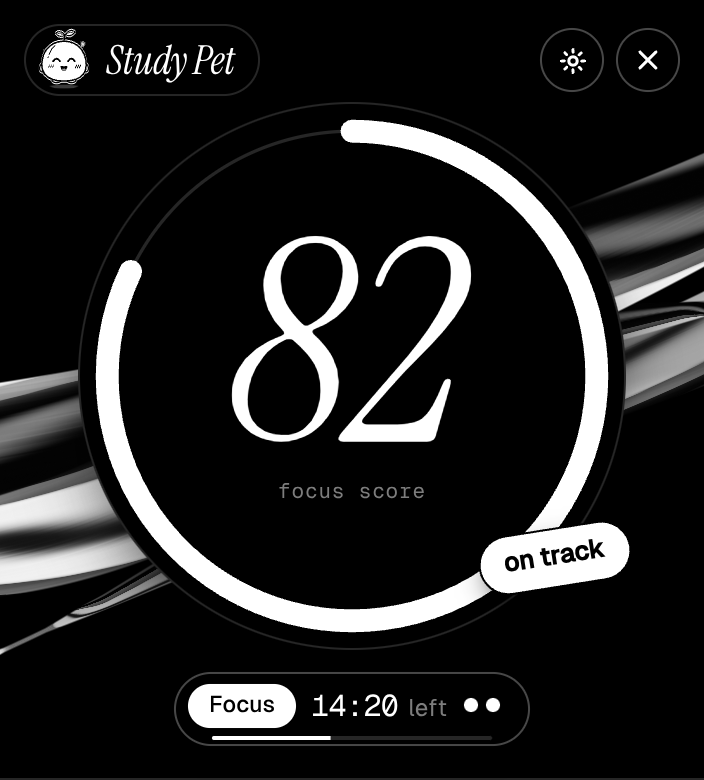
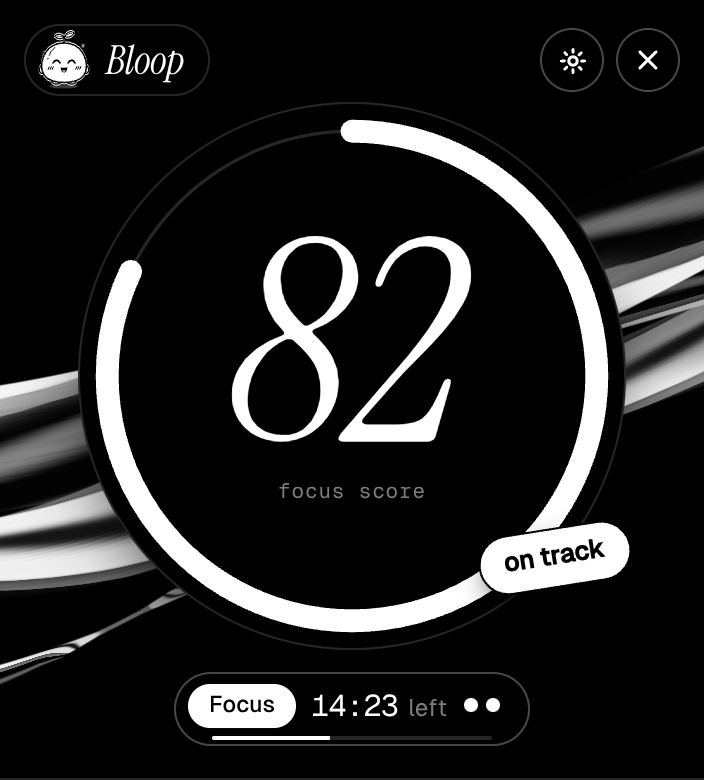
Rename the app to Bloop
User-facing name, window titles, tray, notifications, onboarding, README,
installer productName and bundle id (edu.bloop.app). Env vars are now
BLOOP_FAST / BLOOP_FAKE_ACTIVE / BLOOP_AUTOSTART and logs use [bloop].
Screenshots regenerated.

diff --git a/src/main/tray.ts b/src/main/tray.ts
@@ -46,7 +46,7 @@ export function createTray(actions: TrayActions, status: AppStatus): Tray | null
     if (process.platform === 'darwin') img.setTemplateImage(true)
     tray = new Tray(img)
   } catch (e) {
-    console.log(`[studypet] tray unavailable: ${(e as Error).message}`)
+    console.log(`[bloop] tray unavailable: ${(e as Error).message}`)
     return null
   }
   if (process.platform !== 'darwin') tray.on('click', () => actions.togglePanel())
@@ -59,8 +59,8 @@ export function updateTray(actions: TrayActions, s: AppStatus): void {
   const scoreText = s.score === null ? '—' : `${s.score}`
   const tip =
     s.phase === 'idle'
-      ? 'Study Pet — no session running'
-      : `Study Pet — ${s.phase === 'paused' ? 'paused' : s.phase} · focus score ${scoreText}`
+      ? 'Bloop — no session running'
+      : `Bloop — ${s.phase === 'paused' ? 'paused' : s.phase} · focus score ${scoreText}`
   tray.setToolTip(tip)
   // the countdown next to the menu-bar icon (mac only)
   if (process.platform === 'darwin') {
@@ -72,7 +72,7 @@ export function updateTray(actions: TrayActions, s: AppStatus): void {
   lastKey = key
   const running = s.phase === 'focus' || s.phase === 'break' || s.phase === 'paused'
   const items: MenuItemConstructorOptions[] = [
-    { label: running ? `Focus score: ${scoreText}` : 'Study Pet', enabled: false },
+    { label: running ? `Focus score: ${scoreText}` : 'Bloop', enabled: false },
     { type: 'separator' }
   ]
   if (!running) items.push({ label: 'Start session', click: () => actions.start() })
@@ -86,7 +86,7 @@ export function updateTray(actions: TrayActions, s: AppStatus): void {
     { label: 'Show panel', click: () => actions.togglePanel() },
     { label: 'Settings…', click: () => actions.openSettings() },
     { type: 'separator' },
-    { label: 'Quit Study Pet', click: () => app.quit() }
+    { label: 'Quit Bloop', click: () => app.quit() }
   )
   tray.setContextMenu(Menu.buildFromTemplate(items))
 }

diff --git a/src/main/index.ts b/src/main/index.ts
@@ -14,15 +14,15 @@ import { createTray, updateTray, type TrayActions } from './tray'
 import * as windows from './windows'
 
 const __dirname = dirname(fileURLToPath(import.meta.url))
-const FAST = process.env['STUDYPET_FAST'] === '1'
+const FAST = process.env['BLOOP_FAST'] === '1'
 const isMac = process.platform === 'darwin'
 
-const log = (m: string): void => console.log(`[studypet] ${m}`)
+const log = (m: string): void => console.log(`[bloop] ${m}`)
 
 // ------------------------------------------------------------------ single instance
 
 // Windows: needed for toast notifications (must match build.appId) and taskbar grouping.
-if (process.platform === 'win32') app.setAppUserModelId('edu.studypet.app')
+if (process.platform === 'win32') app.setAppUserModelId('edu.bloop.app')
 
 if (!app.requestSingleInstanceLock()) {
   app.quit()
@@ -222,7 +222,7 @@ app.on('before-quit', () => {
 })
 
 app.whenReady().then(() => {
-  log(`starting (platform=${process.platform}, fast=${FAST}, fake=${process.env['STUDYPET_FAKE_ACTIVE'] ?? 'no'})`)
+  log(`starting (platform=${process.platform}, fast=${FAST}, fake=${process.env['BLOOP_FAKE_ACTIVE'] ?? 'no'})`)
   if (isMac) app.dock?.hide()
   registerIpc()
   windows.createPetWindow()
@@ -240,7 +240,7 @@ app.whenReady().then(() => {
   if (icalUrl) void refreshDeadlines(icalUrl)
 
   // dev/demo: auto-start a session for headless verification
-  if (process.env['STUDYPET_AUTOSTART'] === '1') setTimeout(() => engine.start(), 1500)
+  if (process.env['BLOOP_AUTOSTART'] === '1') setTimeout(() => engine.start(), 1500)
 
   app.on('activate', () => windows.togglePanel())
 })

diff --git a/src/main/reminders.ts b/src/main/reminders.ts
@@ -35,7 +35,7 @@ export class ReminderScheduler {
       this.checkStudyReminders()
       this.checkDeadlines()
     } catch (e) {
-      console.log(`[studypet] reminder check failed: ${(e as Error).message}`)
+      console.log(`[bloop] reminder check failed: ${(e as Error).message}`)
     }
   }
 
@@ -49,10 +49,10 @@ export class ReminderScheduler {
       if (wasReminderFired(key)) continue
       markReminderFired(key)
       if (this.deps.engine.isRunning()) {
-        console.log(`[studypet] reminder "${r.label}" skipped (session running)`)
+        console.log(`[bloop] reminder "${r.label}" skipped (session running)`)
         continue
       }
-      console.log(`[studypet] reminder fired: "${r.label}"`)
+      console.log(`[bloop] reminder fired: "${r.label}"`)
       this.deps.engine.say('Time to study!', 'wave')
       this.deps.notify('Time to study! 📚', r.label || "Your study pet is ready when you are.", {
         actionText: 'Start session',
@@ -76,7 +76,7 @@ export class ReminderScheduler {
         if (wasReminderFired(key)) continue
         markReminderFired(key, now)
         const when = new Date(d.start).toLocaleString(undefined, { weekday: 'short', month: 'short', day: 'numeric', hour: 'numeric', minute: '2-digit' })
-        console.log(`[studypet] deadline reminder: ${d.summary} in ~${n}d`)
+        console.log(`[bloop] deadline reminder: ${d.summary} in ~${n}d`)
         this.deps.notify(`${d.summary} in ${n === 1 ? '1 day' : '3 days'}`, `${when} — want to start a study session?`, {
           actionText: 'Start session',
           onAction: () => this.deps.engine.start()

diff --git a/src/main/plan.ts b/src/main/plan.ts
@@ -18,7 +18,7 @@ export function loadEnv(dirs: string[]): void {
     const p = join(d, '.env')
     if (existsSync(p)) {
       dotenv.config({ path: p, quiet: true } as dotenv.DotenvConfigOptions)
-      console.log(`[studypet] loaded env from ${p}`)
+      console.log(`[bloop] loaded env from ${p}`)
     }
   }
 }
@@ -97,7 +97,7 @@ export function parsePlan(text: string, now = Date.now()): StudyPlan {
 
 export async function generatePlan(deadlines: Deadline[], stats: Stats, settings: Settings): Promise<Result<StudyPlan>> {
   if (!hasApiKey()) {
-    return { ok: false, error: 'No ANTHROPIC_API_KEY set in .env — add one to the project folder (or app folder) and restart Study Pet.' }
+    return { ok: false, error: 'No ANTHROPIC_API_KEY set in .env — add one to the project folder (or app folder) and restart Bloop.' }
   }
   try {
     const client = new Anthropic({ apiKey: process.env['ANTHROPIC_API_KEY'] })
@@ -113,7 +113,7 @@ export async function generatePlan(deadlines: Deadline[], stats: Stats, settings
     if (res.stop_reason === 'refusal') return { ok: false, error: 'The model declined to make a plan. Try again later.' }
     const text = res.content.map((b) => (b.type === 'text' ? b.text : '')).join('')
     const plan = parsePlan(text)
-    console.log(`[studypet] plan generated: ${plan.blocks.length} blocks`)
+    console.log(`[bloop] plan generated: ${plan.blocks.length} blocks`)
     return { ok: true, value: plan }
   } catch (e) {
     if (e instanceof Anthropic.AuthenticationError) return { ok: false, error: 'Your ANTHROPIC_API_KEY was rejected. Check the key in .env.' }

diff --git a/src/main/tracker.ts b/src/main/tracker.ts
@@ -28,7 +28,7 @@ async function readFake(path: string): Promise<RawActive | null> {
     if (!j || typeof j.app !== 'string') return null
     return { app: j.app, title: typeof j.title === 'string' ? j.title : '', url: typeof j.url === 'string' ? j.url : undefined }
   } catch (e) {
-    console.log(`[studypet] fake active window read failed: ${(e as Error).message}`)
+    console.log(`[bloop] fake active window read failed: ${(e as Error).message}`)
     return null
   }
 }
@@ -47,10 +47,10 @@ export async function getBrowserUrl(app: string): Promise<string | undefined> {
 
 /**
  * Sample the frontmost window. Returns null if it can't be determined (e.g. no window server
- * on Linux). If STUDYPET_FAKE_ACTIVE points at a JSON file `{app, url?, title?}`, that is used instead.
+ * on Linux). If BLOOP_FAKE_ACTIVE points at a JSON file `{app, url?, title?}`, that is used instead.
  */
 export async function sampleActiveWindow(): Promise<RawActive | null> {
-  const fake = process.env['STUDYPET_FAKE_ACTIVE']
+  const fake = process.env['BLOOP_FAKE_ACTIVE']
   if (fake) return readFake(fake)
   try {
     const { activeWindow } = await import('get-windows')
@@ -67,7 +67,7 @@ export async function sampleActiveWindow(): Promise<RawActive | null> {
   } catch (e) {
     if (!loggedTrackerError) {
       loggedTrackerError = true
-      console.log(`[studypet] active window unavailable: ${(e as Error).message}`)
+      console.log(`[bloop] active window unavailable: ${(e as Error).message}`)
     }
     return null
   }

diff --git a/src/main/windows.ts b/src/main/windows.ts
@@ -85,7 +85,7 @@ export function createPetWindow(): BrowserWindow {
     focusable: !isWin,
     ...(isWin ? { thickFrame: false, roundedCorners: false } : {}),
     show: false,
-    title: 'Study Pet',
+    title: 'Bloop',
     webPreferences: webPreferences()
   })
   setTopLevel(win, 'pet')
@@ -188,7 +188,7 @@ function createPanelWindow(): BrowserWindow {
     alwaysOnTop: true,
     skipTaskbar: true,
     show: false,
-    title: 'Study Pet',
+    title: 'Bloop',
     backgroundColor: '#000000',
     roundedCorners: true,
     webPreferences: webPreferences()
@@ -266,7 +266,7 @@ function bringToFront(win: BrowserWindow): void {
 export function openSettings(): void {
   closePanel()
   if (settingsWin && !settingsWin.isDestroyed()) return bringToFront(settingsWin)
-  settingsWin = framedWindow('settings', 760, 640, 'Study Pet — Settings')
+  settingsWin = framedWindow('settings', 760, 640, 'Bloop — Settings')
   settingsWin.on('closed', () => {
     settingsWin = null
   })
@@ -275,7 +275,7 @@ export function openSettings(): void {
 
 export function openOnboarding(): void {
   if (onboardingWin && !onboardingWin.isDestroyed()) return bringToFront(onboardingWin)
-  onboardingWin = framedWindow('onboarding', 520, 560, 'Welcome to Study Pet')
+  onboardingWin = framedWindow('onboarding', 520, 560, 'Welcome to Bloop')
   onboardingWin.on('closed', () => {
     onboardingWin = null
   })

diff --git a/src/main/session.ts b/src/main/session.ts
@@ -128,7 +128,7 @@ export class SessionEngine extends EventEmitter {
       clearTimeout: (h) => clearTimeout(h as ReturnType<typeof setTimeout>),
       fast: false,
       random: Math.random,
-      log: (m) => console.log(`[studypet] ${m}`),
+      log: (m) => console.log(`[bloop] ${m}`),
       ...deps
     } as SessionEngine['d']
   }
@@ -422,7 +422,7 @@ export class SessionEngine extends EventEmitter {
         if (streak >= tm.notifyAfterSec && !this.notifiedThisStreak) {
           this.notifiedThisStreak = true
           this.d.log('nudge notification')
-          this.d.notify('Study Pet misses you 🐾', `You've been off task for ${formatDur(streak)}. Let's get back to it together!`)
+          this.d.notify('Bloop misses you 🐾', `You've been off task for ${formatDur(streak)}. Let's get back to it together!`)
         }
       } else if (streak >= tm.sadAfterSec) {
         this.setMood('sad')

diff --git a/src/renderer/src/views/Settings.tsx b/src/renderer/src/views/Settings.tsx
@@ -313,7 +313,7 @@ export function SettingsView(): JSX.Element {
   }
 
   const reset = async (): Promise<void> => {
-    if (!confirm('Reset all Study Pet data? This deletes your session history and restores default settings.')) return
+    if (!confirm('Reset all Bloop data? This deletes your session history and restores default settings.')) return
     try {
       if (timer.current) window.clearTimeout(timer.current)
       pending.current = {}
@@ -433,7 +433,7 @@ export function SettingsView(): JSX.Element {
             onChange={(n) => update({ breakMinutes: n })}
           />
           <label className="row-toggle">
-            <span>Open Study Pet when you log in</span>
+            <span>Open Bloop when you log in</span>
             <span className="toggle">
               <input
                 type="checkbox"

diff --git a/src/main/deadlines.ts b/src/main/deadlines.ts
@@ -51,7 +51,7 @@ export async function refreshDeadlines(icalUrl: string): Promise<Result<Deadline
     if (!/BEGIN:VCALENDAR/i.test(body)) return { ok: false, error: "That URL didn't return an iCal calendar." }
     const items = parseDeadlines(ical.sync.parseICS(body) as Record<string, unknown>)
     setDeadlinesCache({ fetchedAt: Date.now(), url, items })
-    console.log(`[studypet] deadlines refreshed: ${items.length} upcoming`)
+    console.log(`[bloop] deadlines refreshed: ${items.length} upcoming`)
     return { ok: true, value: items }
   } catch (e) {
     return { ok: false, error: `Couldn't load calendar: ${(e as Error).message}` }

diff --git a/src/renderer/src/pet/Pet.tsx b/src/renderer/src/pet/Pet.tsx
@@ -48,7 +48,7 @@ export function Pet({ mood, size, skin = DEFAULT_SKIN, outlined = false, classNa
       className={`pet pet--${mood}${outlined ? ' pet--outlined' : ''}${className ? ` ${className}` : ''}`}
       style={style}
       role="img"
-      aria-label={`Study Pet, ${MOOD_LABEL[mood]}`}
+      aria-label={`Bloop, ${MOOD_LABEL[mood]}`}
     >
       <svg className="pet-halo-defs" width="0" height="0" aria-hidden="true" focusable="false">
         <filter id={haloId} x="-20%" y="-20%" width="140%" height="140%" colorInterpolationFilters="sRGB">

diff --git a/src/renderer/src/pet/skins/Blobby.tsx b/src/renderer/src/pet/skins/Blobby.tsx
@@ -2,7 +2,7 @@ import type { PetMood } from '@shared/types'
 import type { PetSkinProps } from './types'
 
 /**
- * "Blobby" — the default Study Pet: a round creature with a sprout, drawn as black-and-white line art.
+ * "Blobby" — the default Bloop: a round creature with a sprout, drawn as black-and-white line art.
  * White paper body + black ink outline, so it reads on both light and dark wallpapers.
  * Pure inline SVG, flat fills only; animation hooks are the `pb-*` class names styled in pet.css.
  */

diff --git a/src/renderer/src/views/Panel.tsx b/src/renderer/src/views/Panel.tsx
@@ -532,7 +532,7 @@ export function Panel(): JSX.Element {
         <header className="hero-bar">
           <div className="hero-brand">
             <Pet mood={status.pet.mood} size={30} />
-            <h1 className="serif">Study Pet</h1>
+            <h1 className="serif">Bloop</h1>
           </div>
           <div className="hero-actions">
             <button className="icon-btn icon-btn--pill" aria-label="Settings" onClick={() => void window.studyPet.openSettings()}>
